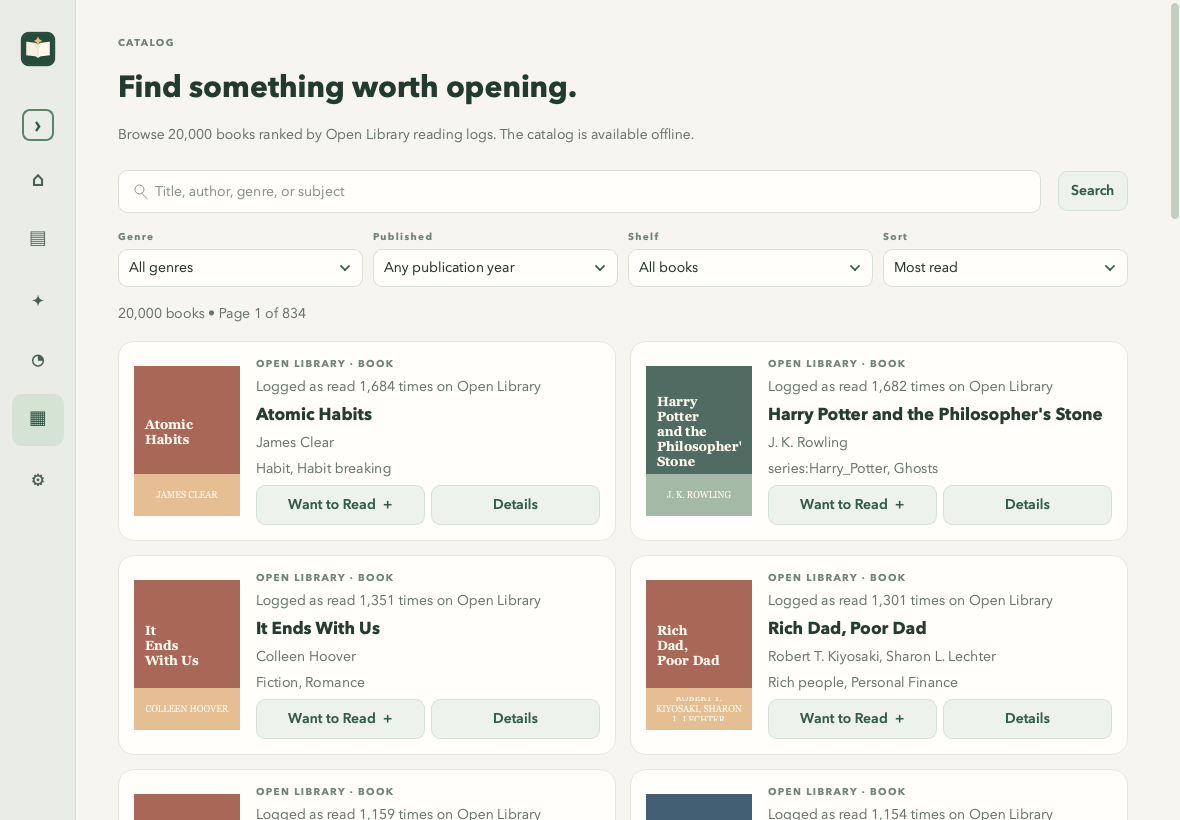
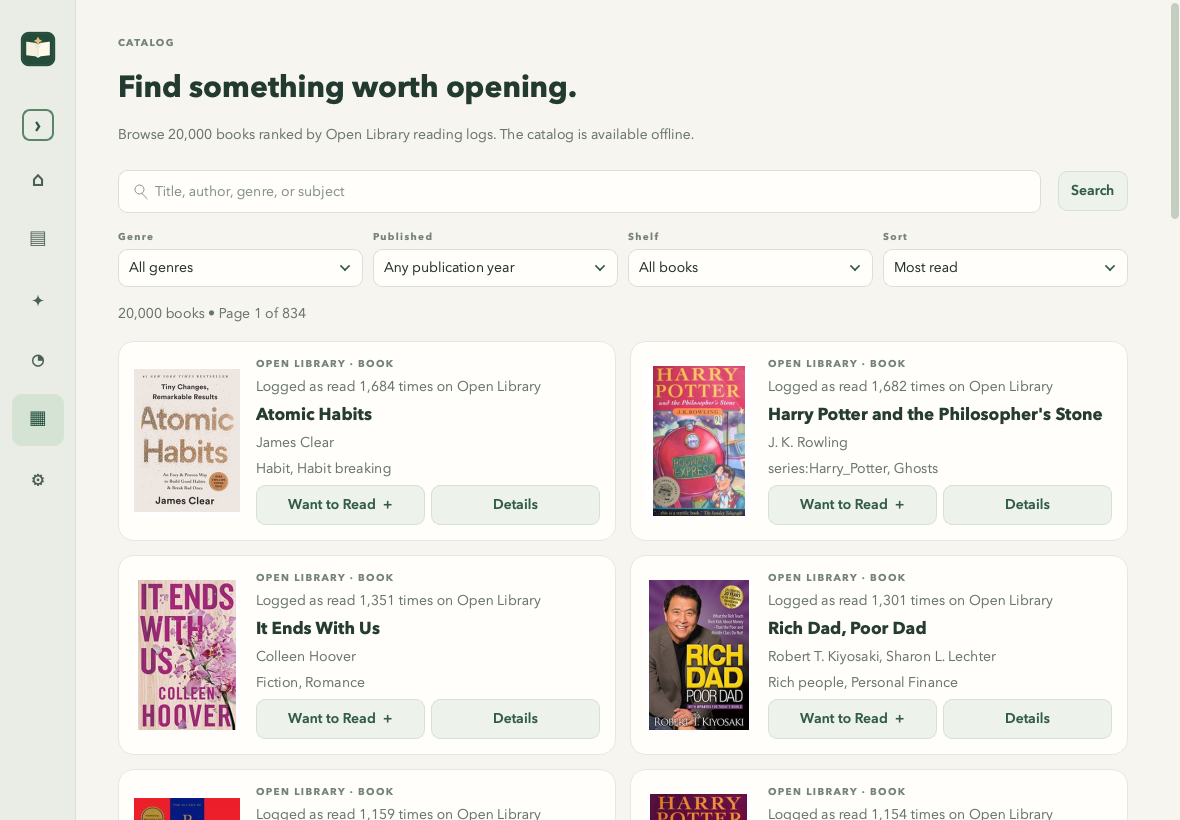
Show cached public cover art in demo screenshots

diff --git a/scripts/capture_screenshots.py b/scripts/capture_screenshots.py
@@ -1,4 +1,4 @@
-"""Capture public demo screenshots with synthetic data only.
+"""Capture public demo screenshots with synthetic reading data and cached cover art.
 
 Run from the repository root with QT_QPA_PLATFORM=offscreen.
 """
@@ -16,7 +16,7 @@ from PySide6.QtGui import QColor, QPalette
 from PySide6.QtWidgets import QApplication
 
 from bookmatch_app.recommend import recommend
-from bookmatch_app.storage import LibraryStore
+from bookmatch_app.storage import LibraryStore, data_directory
 from bookmatch_app.dialogs import (AddBookDialog, BookDetailsDialog, CatalogPickerDialog,
                                    ShelfDialog, ManageShelvesDialog, GoalDialog, GoalBooksDialog)
 from bookmatch_app.widgets import ShelfSection
@@ -48,6 +48,9 @@ def main() -> None:
         for name in ("Book club", "Favorites", "Next year"):
             store.create_shelf(name)
         window = BookMatchWindow(store)
+        # Read only public artwork from the existing cache. Downloads are disabled;
+        # the real library, notes, and reading activity are never opened.
+        window.cover_cache.directory = data_directory() / "covers"
         window.resize(1180, 820)
         window.show()
         app.processEvents()

diff --git a/PROJECT_STATUS.md b/PROJECT_STATUS.md
@@ -17,7 +17,7 @@ Reviewed: 2026-09-30 · Version: 0.2.22 · Schema: 12
 - JSON import validates optional text, publication year, ratings, and reading dates before importing a record. Extreme CSV publication years are reported as invalid rather than overflowing during import.
 - JSON backup export writes to a temporary file, flushes it, and replaces the destination after writing succeeds. A failed replacement leaves the existing backup intact.
 - Shared popups omit icons; incorrect CLEAR confirmation gives feedback; goal deletion preserves library books and other goals; Genre labels are consistent across Catalog and Discover.
-- Source screenshots use temporary synthetic reading history and disable cover downloads. Private library counts, personal machine paths, and session-specific import details have been removed from publishable documentation.
+- Source screenshots use temporary synthetic reading history, reuse available public cover artwork, and disable cover downloads. Private library counts, personal machine paths, and session-specific import details have been removed from publishable documentation.
 
 ## Verification
 

diff --git a/README.md b/README.md
@@ -79,7 +79,7 @@ QT_QPA_PLATFORM=offscreen BOOKMATCH_DATA_DIR=/tmp/bookmatch-package-check \
   dist/BookMatch.app/Contents/MacOS/BookMatch --self-test
 ```
 
-Regenerate synthetic screenshots without downloads:
+Regenerate screenshots using synthetic reading history and any public covers already cached on this computer, without downloads:
 
 ```sh
 QT_QPA_PLATFORM=offscreen .venv/bin/python -m scripts.capture_screenshots
